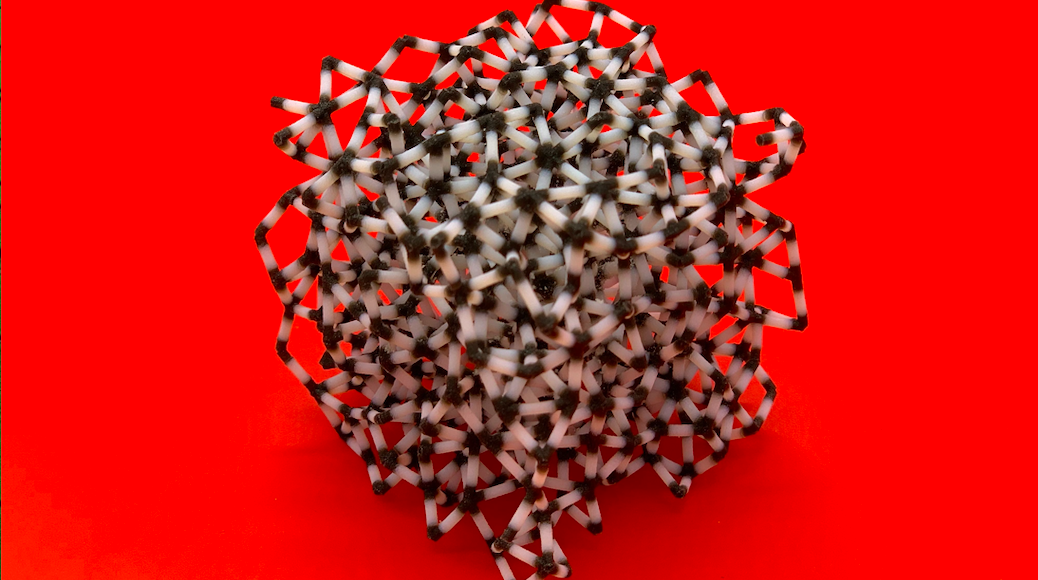
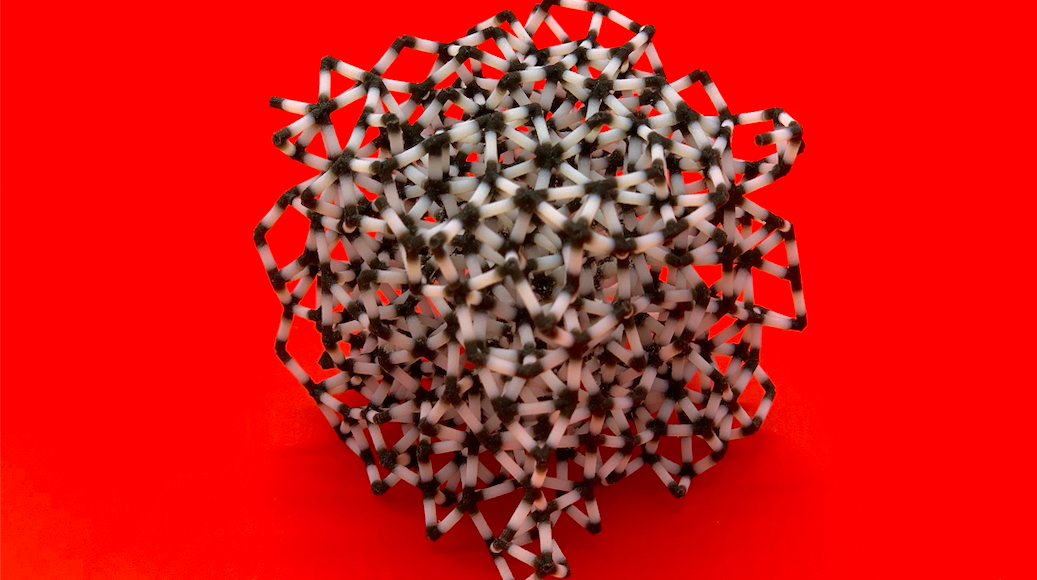
first pass at branding

diff --git a/chimadApp/app/static/js/resize.js b/chimadApp/app/static/js/resize.js
@@ -1,6 +1,9 @@
 //I can improve this, especially for mobile
 function resize(){
 	
+	var topH = d3.select('#branding').node().getBoundingClientRect().height + 20;
+
+
 	if (params.haveBars && params.createdBars) resizeBarPlot();
 
 	var elem;
@@ -32,8 +35,9 @@ function resize(){
 		.style('font-size', fsi + 'px')
 		.style('line-height', (fsi+4)+'px');
 			
+	d3.select('#paragraphForm').style('margin-top',topH + 'px');
 	var paragraphFormBbox = d3.select('#paragraphForm').node().getBoundingClientRect();
-	var maxH = paragraphFormBbox.height;
+	var maxH = paragraphFormBbox.height + topH;
 
 	//for now I'm disabling this entire section unless we are showing the bar chart
 	if (params.haveBars && params.createdBars) {
@@ -58,15 +62,17 @@ function resize(){
 			//side-by-side view
 			d3.select('#paragraphForm').style('width',paragraphFormWidth);
 			d3.select('#boxGrid')
-				.style('left',paragraphFormWidth)
-				.style('top',0);
+				.style('left',paragraphFormWidth + 'px')
+				.style('margin-top','0px')
+				.style('top',topH+'px');
 			boxGridBbox = d3.select('#boxGrid').node().getBoundingClientRect();
-			maxH = Math.max(Math.max(plotBbox.height, boxGridBbox.height), paragraphFormBbox.height);
+			maxH = Math.max(Math.max(plotBbox.height, boxGridBbox.height), paragraphFormBbox.height) + topH;
 			d3.select('#verticalLine1')
 				.style('display','block')
-				.style('left',paragraphFormWidth)
+				.style('left',paragraphFormWidth + 'px')
+				.style('top',topH + 'px')
 				//.style('height', 0.98*Math.max(window.innerHeight,boxGridBbox.height));
-				.style('height', maxH - 0.01*window.innerHeight + 4)
+				.style('height', (maxH - 0.01*window.innerHeight - topH + 12) + 'px')
 			d3.select('#horizontalLine1').style('display','none');
 			d3.select('#horizontalLine2') 
 				.style('display','block')
@@ -79,13 +85,14 @@ function resize(){
 			paragraphFormBbox = d3.select('#paragraphForm').node().getBoundingClientRect();
 			d3.select('#boxGrid')
 				.style('left',0)
-				.style('top',paragraphFormBbox.height + 50 + 'px')
+				.style('top',paragraphFormBbox.height + topH + 50 + 'px')
+				.style('margin-top','0px')
 				.style('width',paragraphFormBbox.width + 'px')
 			d3.select('#verticalLine1').style('display','none');
 			d3.select('#horizontalLine1')			
 				.style('display','block')
-				.style('top',paragraphFormBbox.height+'px');
-			maxH = paragraphFormBbox.height + Math.max(plotBbox.height, boxGridBbox.height) + 80;
+				.style('top',paragraphFormBbox.height+ topH + 'px');
+			maxH = paragraphFormBbox.height + topH + Math.max(plotBbox.height, boxGridBbox.height) + 80;
 			d3.select('#horizontalLine2')			
 				.style('display','block')
 				.style('top',maxH+'px');

diff --git a/chimadApp/app/templates/training.html b/chimadApp/app/templates/training.html
@@ -10,8 +10,17 @@
 
 		<div id='tooltip'></div>
 
+		<div id='branding' style='width:100%;background-color:rgba(0,0,0,0.2)'>
+			<div style='padding:0.1vw'>
+				<a href="https://chimad.northwestern.edu/"><img src='static/images/ChiMaD_Final_wname-transparent.png' style='height:15vh'></a>
+				<hr class='simpleLine'>
+				<a class='simpleLink' href='home'><div style='font-size:5vw; font-weight:bold; padding-left:0.5vw'> System Design Chart Tools </div></a>
+				<div style='font-size:2.5vw; font-style:italic; padding-left:1vw; line-height:5vh'> Poll Your Group About Material Properties </div>
+			</div>
+		</div>
+
 		<!-- default is for this on the left -->
-		<div id='paragraphForm'>
+		<div id='paragraphForm' style='margin-top:30vh'>
 
 			<div id='paraForm' class='para'>
 
@@ -37,11 +46,11 @@
 			<div id="paraNotification" class="notifications" style="margin:20px">Please click the Submit button above when you have completed your work.</div>
 		</div>
 
-		<div class="verticalLine" id='verticalLine1'></div>
+		<div class="verticalLine" id='verticalLine1' style='display:none'></div>
 		<div class="horizontalLine" id='horizontalLine1' style='display:none'></div>
 
 		<!-- default is for this on the right -->
-		<div id="boxGrid">
+		<div id="boxGrid" style='margin-top:30vh'>
 			<div class="para">
 
 				<div id="boxGridInstructions" class="instructions">&#9314; After you submit your responses, this visualization will populate with the aggregate results from the group. </div>

diff --git a/chimadApp/app/static/js/initSystemDesignChart.js b/chimadApp/app/static/js/initSystemDesignChart.js
@@ -168,8 +168,9 @@ function formatSDC(duration=0){
 			for (var i=0; i<reversedSelectionWords.length; i++){
 				var d = params.cleanString(reversedSelectionWords[i]);
 				if (using.hasOwnProperty(d)){
-					var x = params.SDCColumnCenters[using[d]] - params.SDCBoxWidth/2.;
-					var y = SDCcolumnYLocations[using[d]];
+					var dd = params.cleanString(using[d]);
+					var x = params.SDCColumnCenters[dd] - params.SDCBoxWidth/2.;
+					var y = SDCcolumnYLocations[dd];
 					if (x && y && !isNaN(x) && !isNaN(y)){
 						var box = d3.select('#SDCBox_'+params.cleanString(reversedSelectionWords[i]))
 							.attr('class','SDCrectContainer ' + using[d])
@@ -178,7 +179,7 @@ function formatSDC(duration=0){
 							.on('mousedown', startSDCLine)
 
 						box.select('rect')
-							.attr('class',using[d].toLowerCase()+'Word ' + using[d].toLowerCase() + ' SDCrect SDCrectDone')
+							.attr('class',dd+'Word ' + dd + ' SDCrect SDCrectDone')
 							.style('fill','');
 
 						box.transition().duration(duration)
@@ -186,7 +187,7 @@ function formatSDC(duration=0){
 
 						var text = box.select('text');
 						var bbox = text.node().getBBox();
-						SDCcolumnYLocations[using[d]] += bbox.height+10 + params.SDCBoxMargin;// - boxHeight;
+						SDCcolumnYLocations[dd] += bbox.height+10 + params.SDCBoxMargin;// - boxHeight;
 					}
 				}
 			}

diff --git a/chimadApp/app/templates/editPara.html b/chimadApp/app/templates/editPara.html
@@ -10,8 +10,17 @@
 
 		<div id='tooltip'></div>
 
+		<div id='branding' style='width:100%;background-color:rgba(0,0,0,0.2)'>
+			<div style='padding:0.1vw'>
+				<a href="https://chimad.northwestern.edu/"><img src='static/images/ChiMaD_Final_wname-transparent.png' style='height:15vh'></a>
+				<hr class='simpleLine'>
+				<a class='simpleLink' href='home'><div style='font-size:5vw; font-weight:bold; padding-left:0.5vw'> System Design Chart Tools </div></a>
+				<div style='font-size:2.5vw; font-style:italic; padding-left:1vw; line-height:5vh'> Build Your Own Material Paragraph and System Design Chart </div>
+			</div>
+		</div>
+
 		<!-- default is for this on the left -->
-		<div id='paragraphForm' style="width:100%">
+		<div id='paragraphForm' style='width:100%; margin-top:30vh'>
 
 			<div id='paraForm' class='para'>
 

diff --git a/chimadApp/app/templates/editSDC.html b/chimadApp/app/templates/editSDC.html
@@ -10,6 +10,15 @@
 
 		<div id='tooltip'></div>
 
+		<div id='branding' style='width:100%;background-color:rgba(0,0,0,0.2)'>
+			<div style='padding:0.1vw'>
+				<a href="https://chimad.northwestern.edu/"><img src='static/images/ChiMaD_Final_wname-transparent.png' style='height:15vh'></a>
+				<hr class='simpleLine'>
+				<a class='simpleLink' href='home'><div style='font-size:5vw; font-weight:bold; padding-left:0.5vw'> System Design Chart Tools </div></a>
+				<div style='font-size:2.5vw; font-style:italic; padding-left:1vw; line-height:5vh'> Edit and Export Your System Design Chart </div>
+			</div>
+		</div>
+		
 		<!-- including this but hidden so that the other functions that compile the selection words can work as usual -->
 		<div id='paragraphForm' style="width:100%; display:none;">
 

diff --git a/chimadApp/app/templates/index.html b/chimadApp/app/templates/index.html
@@ -11,7 +11,7 @@
 			<div style='padding:0.1vw'>
 				<a href="https://chimad.northwestern.edu/"><img src='static/images/ChiMaD_Final_wname-transparent.png' style='height:15vh'></a>
 				<hr class='simpleLine'>
-				<div style='font-size:5vw; font-weight:bold; padding-left:0.5vw'> System Design Chart Tools </div>
+				<a class='simpleLink' href=''><div style='font-size:5vw; font-weight:bold; padding-left:0.5vw'> System Design Chart Tools </div></a>
 			</div>
 		</div>
 		<div class='crop-bg-img' style='display:flex; align-items:center'>
@@ -27,7 +27,7 @@
 			</a>
 			<a class='simpleLink' href='editSDC'>
 				<div class='landing-button'>
-					<div>Edit Your System Design Chart</div>
+					<div>Edit and Export Your System Design Chart</div>
 				</div>
 			</a>
 		</div>

diff --git a/chimadApp/app/static/css/index.css b/chimadApp/app/static/css/index.css
@@ -323,6 +323,7 @@ html,body {
 }
 .simpleLink{
 	color: black;
+	text-decoration: none;
 }
 .landing-button:hover{
 	background-color: rgba(255,255,255,1);

diff --git a/chimadApp/app/__init__.py b/chimadApp/app/__init__.py
@@ -108,7 +108,15 @@ def save_responses():
 
 
 @app.route('/')
-def test():
+def default():
+	return render_template('index.html')
+
+@app.route('/home')
+def home():
+	return render_template('index.html')
+
+@app.route('/index')
+def index():
 	return render_template('index.html')
 
 @app.route('/training')
